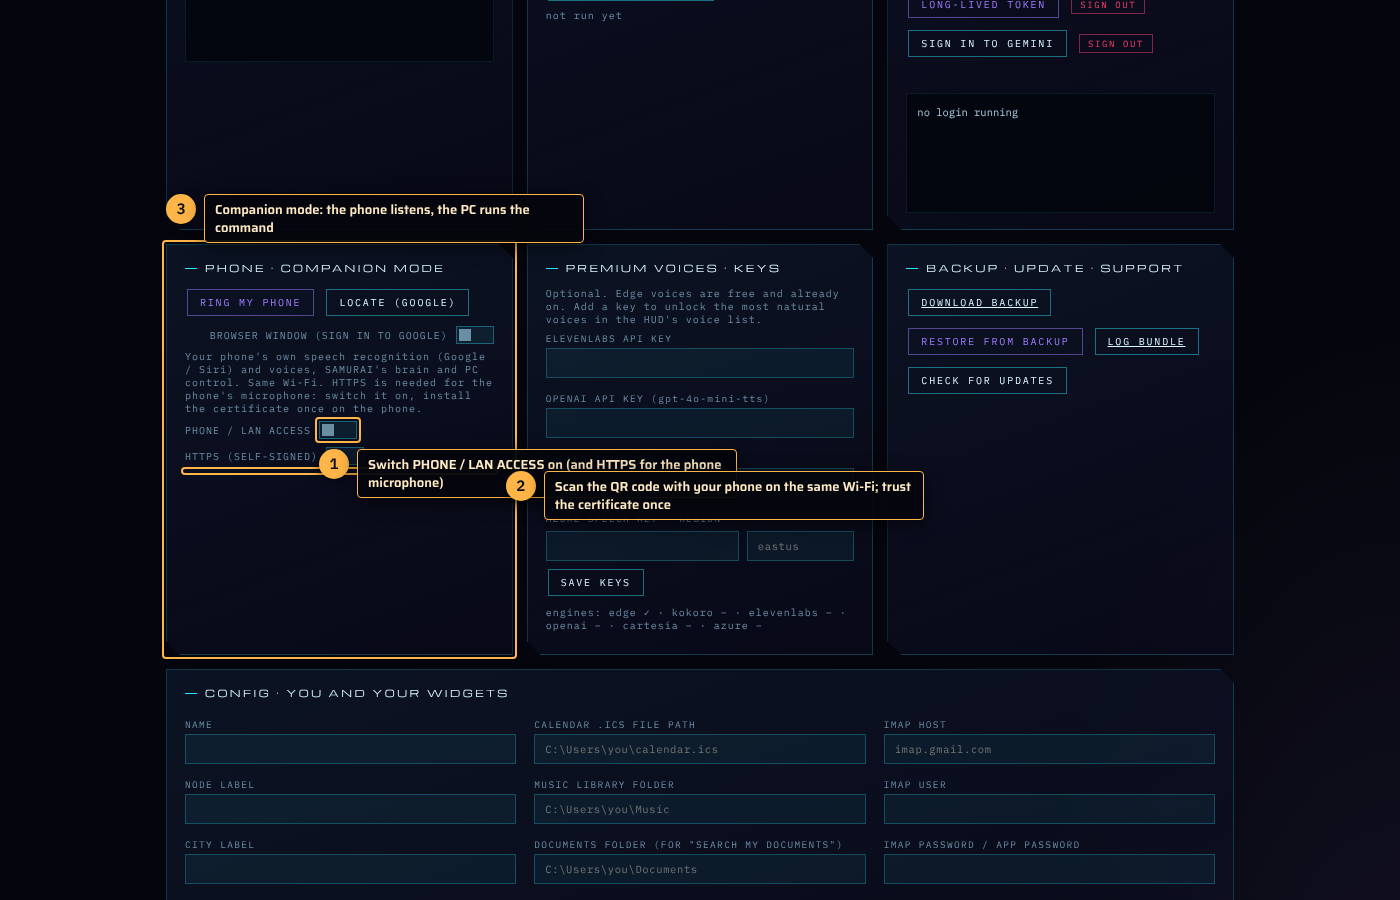
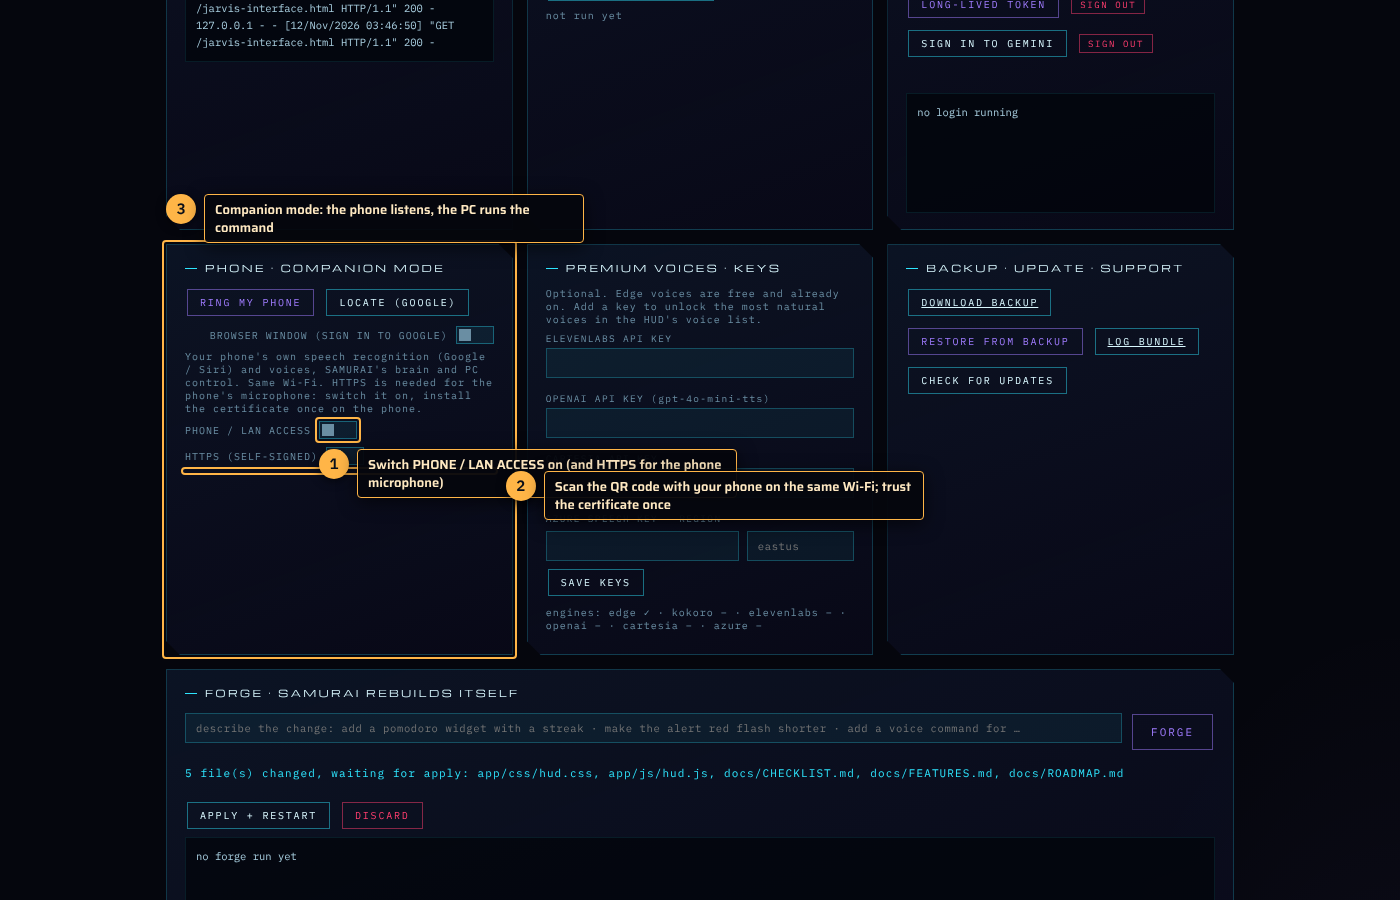
v1.4.0: chromeless app window bar in the HUD, find-my-phone, forge, screen widget, custom widgets, install guide
- HUD: slim app bar for the pywebview window (drag, pin, minimize, fullscreen, close, hotkey)
- docs: FEATURES, CHECKLIST stage 13, ROADMAP, INSTALL.md phone screenshot retaken with the QR code
- VERSION 1.4.0

Claude-Session: https://claude.ai/code/session_01VFJFXnfbchn5Rv1JWxXUNd

diff --git a/app/js/hud.js b/app/js/hud.js
@@ -902,7 +902,28 @@ Rules for the html: dark transparent background, cyan #2ee6ff / violet #a07cff /
     if (!probing[key]) { probing[key] = (async () => { log('info', `starting ${key} service…`); try { await fetch(PANEL + '/panel/control', { method: 'POST', headers: { 'Content-Type': 'application/json' }, body: JSON.stringify({ action: 'start', key }) }); } catch (e) { } for (let i = 0; i < 30; i++) { await new Promise(r => setTimeout(r, 1000)); if (await up()) return true; } return false; })().finally(() => { setTimeout(() => { probing[key] = null; }, 2000); }); }
     return probing[key];
   }
+  /* ---------- chromeless app window (pywebview): slim bar with drag, pin, minimize, fullscreen, close ---------- */
+  const APP_WINDOW = new URLSearchParams(location.search).get('app') === '1';
+  function appWindow() {
+    document.documentElement.classList.add('app');
+    const bar = document.createElement('div'); bar.id = 'appbar'; bar.className = 'appbar';
+    bar.innerHTML = `<div class="drag" id="appDrag"><i></i>SAMURAI</div><div class="btns"><span id="appPin" title="always on top">PIN</span><span id="appMin" title="minimize">MIN</span><span id="appFull" title="fullscreen">FULL</span><span id="appClose" title="close">✕</span></div>`;
+    document.body.appendChild(bar);
+    const api = () => window.pywebview && window.pywebview.api;
+    let drag = null;
+    $('appDrag').addEventListener('mousedown', e => { drag = { x: e.screenX, y: e.screenY }; e.preventDefault(); });
+    window.addEventListener('mousemove', e => { if (!drag || !api()) return; const dx = e.screenX - drag.x, dy = e.screenY - drag.y; if (dx || dy) { api().move(dx, dy); drag = { x: e.screenX, y: e.screenY }; } });
+    window.addEventListener('mouseup', () => { drag = null; });
+    const refresh = async () => { try { const st = await api().get_state(); $('appPin').classList.toggle('on', !!st.on_top); $('appFull').classList.toggle('on', !!st.fullscreen); } catch (e) { } };
+    $('appPin').onclick = async () => { if (api()) { const on = await api().toggle_on_top(); $('appPin').classList.toggle('on', !!on); } };
+    $('appMin').onclick = () => api() && api().minimize();
+    $('appFull').onclick = async () => { if (api()) { const on = await api().fullscreen(); $('appFull').classList.toggle('on', !!on); } };
+    $('appClose').onclick = () => api() ? api().close() : window.close();
+    if (api()) refresh(); else window.addEventListener('pywebviewready', refresh);
+    window.addEventListener('samurai-hotkey', () => { $('cmd').focus(); });
+  }
   function init() {
+    if (APP_WINDOW) appWindow();
     loadTune(); setInterval(governor, 10000);
     if (COMPANION) { companionEvents(); voice.cfg.sttEngine = voice.phoneCapable ? 'phone' : voice.cfg.sttEngine; if (!voice.cfg.companion || voice.cfg.companion === 'off') voice.cfg.companion = 'phone'; document.documentElement.dataset.companion = '1'; }
     else voice.relay.pollLoop(async c => { const quiet = c.speak_on === 'phone', was = voice.cfg.voiceOn; if (quiet) voice.cfg.voiceOn = false; widgets.pushTty(`phone · ${c.text}`, '#ffb84d'); console.log('relay · from phone: ' + c.text); let text = ''; try { text = await submit(c.text); } finally { if (quiet) voice.cfg.voiceOn = was; } setTimeout(() => { $('transcript').textContent = `from your phone: "${c.text}"`; $('transcript').classList.add('on'); }, 60); return text || S.lastReply || ''; });

diff --git a/app/css/hud.css b/app/css/hud.css
@@ -474,3 +474,10 @@ option{background:#0b1022;color:var(--ice)}
 .ringov{position:fixed;inset:0;z-index:2147483000;display:grid;place-items:center;background:rgba(255,61,110,.85);animation:ringflash .5s steps(2) infinite;font-family:var(--disp)}
 .ringov>div{text-align:center;color:#fff}.ringov b{display:block;font-size:22px;letter-spacing:.2em;margin-bottom:14px}.ringov span{display:block;font-family:var(--mono);font-size:13px;margin-bottom:24px}.ringov .sbtn{display:inline-block;padding:16px 40px;font-size:16px;background:#fff;color:#ff3d6e;border:none}
 @keyframes ringflash{0%{background:rgba(255,61,110,.85)}100%{background:rgba(5,6,13,.95)}}
+
+/* ---- chromeless app window bar ---- */
+.appbar{position:fixed;left:0;right:0;top:0;height:28px;z-index:2147483600;display:flex;align-items:center;background:rgba(5,6,13,.92);border-bottom:1px solid rgba(var(--cyan-rgb),.25);font-family:var(--mono);font-size:10px;letter-spacing:.22em;color:var(--muted);user-select:none}
+.appbar .drag{flex:1;height:100%;display:flex;align-items:center;gap:10px;padding-left:12px;cursor:move;color:var(--ice)}.appbar .drag i{width:10px;height:10px;border:1px solid var(--cyan);transform:rotate(45deg);box-shadow:0 0 8px rgba(var(--cyan-rgb),.6)}
+.appbar .btns{display:flex;height:100%}.appbar .btns span{display:grid;place-items:center;width:52px;height:100%;cursor:pointer;border-left:1px solid rgba(var(--cyan-rgb),.15);transition:background .2s}
+.appbar .btns span:hover{background:rgba(var(--cyan-rgb),.14);color:var(--ice)}.appbar .btns span.on{color:var(--cyan);text-shadow:0 0 8px var(--cyan)}.appbar .btns span:last-child:hover{background:rgba(255,61,110,.35);color:#fff}
+html.app .root{padding-top:28px;box-sizing:border-box}

diff --git a/docs/ROADMAP.md b/docs/ROADMAP.md
@@ -47,7 +47,7 @@ Effort: S = under a day, M = a few days, L = a week or more. "GPU" means it need
 - [x] D1 (M) Presence: greet you when the camera sees you, pause and lock when you leave
 - [ ] D2 (M) Face recognition for per-person profiles and greetings
 - [ ] D3 (M) Hand gestures via webcam (MediaPipe): volume, next, pause, summon a widget
-- [ ] D4 (S) Screen OCR: read any text on screen, copy it, translate it
+- [x] D4 (S) Screen OCR: read any text on screen, copy it, translate it · (tesseract OCR + SCREEN panel)
 - [ ] D5 (M) Activity awareness: knows which app you are in and adapts (quiet during calls, no interruptions while gaming)
 - [x] D6 (S) Clipboard history and "what did I copy earlier" · (clipboard read/write actions exist; no history list)
 - [ ] D7 (M) Windows notifications read aloud, with reply by voice
@@ -94,15 +94,18 @@ Effort: S = under a day, M = a few days, L = a week or more. "GPU" means it need
 - [x] F18 (S) Heartbeat line behind the system widget that follows real CPU load
 - [x] F19 (S) Eyes narrow on hard questions, widen on alerts, look at the widget being read · (glance at the widget being driven)
 - [x] F20 (S) Boot sequence with a diagnostic scroll, a power hum and a "systems online" flash
-- [ ] F21 (M) Desktop overlay: Electron shell, transparent and always on top, so the orb floats over any app
+- [x] F21 (M) Desktop overlay: Electron shell, transparent and always on top, so the orb floats over any app · (chromeless pywebview window; overlay transparency pending)
 - [ ] F22 (S) Widget themes: glass, wireframe, paper; custom fonts
 - [x] F23 (S) Idle behaviours: the orb yawns, stretches, chases the mouse, hides behind a widget
 
 ## G. Platform and polish
 
+- [x] G-1 (L) Forge: SAMURAI rebuilds its own code on request (Claude Code headless, review, apply, restart) and designs its own widgets by voice (v1.4.0)
+- [x] G-2 (M) Find my phone: companion alarm, ntfy push, Google Find My Device through the agent browser, tracking map overlay (v1.4.0)
+
 - [x] G0 (M) Auto-tune: hardware profile, recommended settings applied on first start, browser GPU check, battery / heat / memory governor, essentials startup profile (v1.3.0)
 
-- [ ] G1 (S) Installer exe (NSIS or Inno) instead of a zip; macOS .app and Linux AppImage
+- [x] G1 (S) Installer exe (NSIS or Inno) instead of a zip; macOS .app and Linux AppImage · (installer exe pending; illustrated INSTALL.md done)
 - [x] G2 (S) Auto-update from GitHub releases with a changelog spoken on first boot
 - [ ] G3 (S) Settings sync across machines through a folder or Git
 - [ ] G4 (M) Multi-room: several HUDs on the LAN, one brain, hand-off between rooms

diff --git a/docs/FEATURES.md b/docs/FEATURES.md
@@ -77,6 +77,8 @@ Jarvis-style assistant for your own PC. Offline voice, any AI brain, full PC con
 - Plan mode: "plan: get me ready for deep work" turns a goal into steps and runs them
 
 ## Sight and hands
+- SCREEN panel: a live view of your desktop inside the HUD (any monitor), READ (OCR with tesseract, spoken), DESCRIBE (vision brain), SHOT; "show my screen", "read my screen", "what is on my screen"
+- Find my phone: "ring my phone" makes the phone with the companion page open ring, flash and vibrate, pushes an alarm through ntfy, and presses Play Sound on Google Find My Device through the agent's browser (sign in once in the browser window); "find my phone" shows the Google map live in the HUD under a TRACKING overlay
 - Presence: the camera notices when you arrive after being away and greets you; optional lock when you leave
 - Vision: "what is on my screen", "look at my screen and tell me the error", "what do you see" (webcam)
 - Browser agent: a real Chromium the brain drives: open, read, links, click, type, find, back, screenshot
@@ -85,6 +87,10 @@ Jarvis-style assistant for your own PC. Offline voice, any AI brain, full PC con
 - Send email over SMTP with confirmation
 
 ## Runs itself
+- Forge: "forge: add a widget that shows my pomodoro streak" makes SAMURAI rebuild its own code with Claude Code headless (source install), shows the summary, and installs it on "apply the forge" (syntax check, commit on a forge branch, restart); "discard the forge" drops it
+- Custom widgets by voice: "create a widget that shows my task count" — the brain designs a sandboxed widget, it is stored and mounted in the ring with live data; "delete widget …"
+- Chromeless app window: `SAMURAI.exe --window` or the panel's OPEN AS APP WINDOW opens the HUD in its own frameless window (pywebview) with drag bar, pin on top, minimize, fullscreen and a Ctrl+Alt+S hotkey; the browser option stays
+- Illustrated step-by-step install guide: docs/INSTALL.md
 - Auto-tune: the control panel reads your CPU, RAM, GPUs, battery, cameras, network adapters, disk and installed tools, then sets the 3D quality, Whisper model, Kokoro advice, startup profile, half-duplex mic, presence camera and phone address for that machine; runs by itself on first start
 - Browser GPU check: the HUD reports which GPU the browser really uses; on a two-GPU laptop it warns when the browser sits on the integrated one
 - Governor: on battery or above 85 °C the 3D core drops to low; above 90 % memory it switches to the 2D core and effects off; everything comes back after a quiet minute

diff --git a/docs/CHECKLIST.md b/docs/CHECKLIST.md
@@ -137,6 +137,15 @@ Legend: `[ ]` not started · `[~]` in progress · `[x]` done and verified · `[-
 - [x] Essentials profile with on-demand start of the browser agent and headless agents (verified: browser came up in 3 s from a command)
 - [x] Disk guard on downloads, physical-first phone links, doctor checks, panel auto-tune card, tests/tune_test.py (19 checks)
 
+## Stage 13 — Self-building, screen, phone, app window (v1.4.0)
+
+- [x] SCREEN widget: live JPEG view from the action server (mss), monitor select, OCR via tesseract, vision fallback
+- [x] Custom widgets designed by the brain, stored in data/widgets, mounted as sandboxed frames with a live snapshot bridge (verified with the mock brain: create, show, delete)
+- [x] Forge: Claude Code headless edits the source, syntax checks, commit on forge/<date>, restart; voice + panel card (status / apply / discard paths verified; a real run needs a signed-in Claude Code)
+- [x] Find my phone: companion-page alarm (verified: the phone page rang), ntfy priority push, Google Find My Device through the persistent-profile browser (sign-in path verified; the signed-in device list could not be tested here), tracking overlay
+- [x] Chromeless app window (pywebview) with drag bar, pin, minimize, fullscreen, hotkey; tests/window_test.py 16/16 with a fake pywebview; a real window needs a display
+- [x] docs/INSTALL.md with eight labeled screenshots
+
 ## Not verified in this build (needs a real desktop)
 
 - Premium voice engines with real keys (request shaping tested against a fake backend); browser SpeechRecognition on a phone; Siri / Google voices
